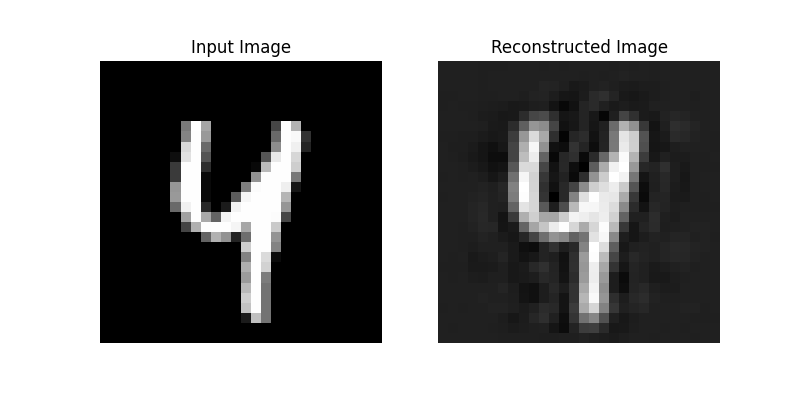
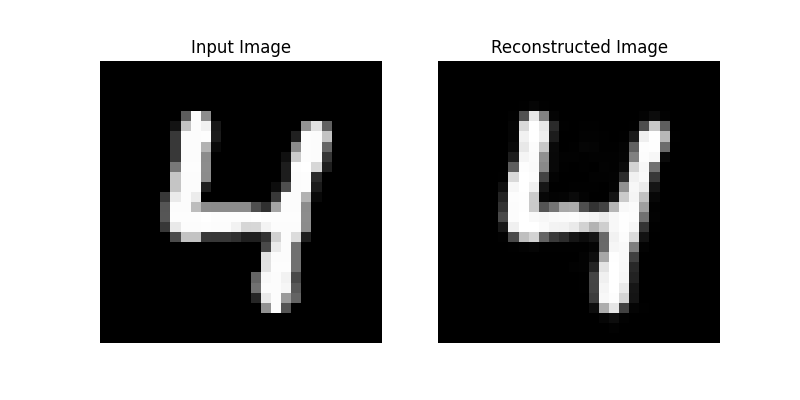
adding activations

Changed region(s): [[0.5312, 0.15, 0.9062, 0.87], [0.1875, 0.27, 0.4375, 0.81]]

diff --git a/FeedForwardAutoencoders/model.py b/FeedForwardAutoencoders/model.py
@@ -10,13 +10,17 @@ class FFAutoencoder(nn.Module):
         encoder_layers = [nn.Linear(in_features=in_features, out_features=hidden_dimensions[0])]
         for i in range(1, len(hidden_dimensions)):
             encoder_layers.append(nn.Linear(in_features=hidden_dimensions[i - 1], out_features=hidden_dimensions[i]))
+            encoder_layers.append(nn.ReLU())
+
         encoder_layers.append(nn.Linear(in_features=hidden_dimensions[-1], out_features=latent_dim))
 
         # Decoder layers
         decoder_layers = [nn.Linear(in_features=latent_dim, out_features=hidden_dimensions[-1])]
         for i in range(len(hidden_dimensions) - 1, 0, -1):
             decoder_layers.append(nn.Linear(in_features=hidden_dimensions[i], out_features=hidden_dimensions[i - 1]))
+            decoder_layers.append(nn.ReLU())
         decoder_layers.append(nn.Linear(in_features=hidden_dimensions[0], out_features=in_features))
+        decoder_layers.append(nn.Sigmoid())
 
         return nn.Sequential(*encoder_layers), nn.Sequential(*decoder_layers)
 
